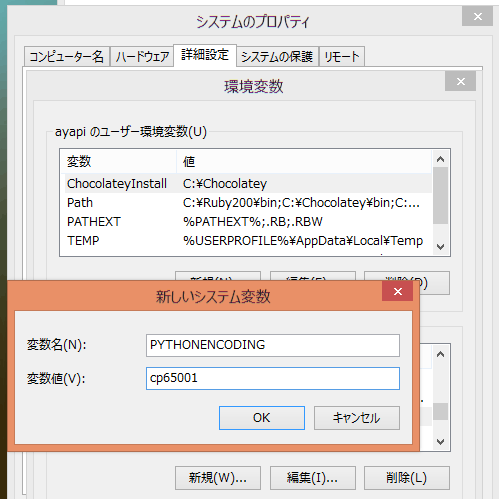
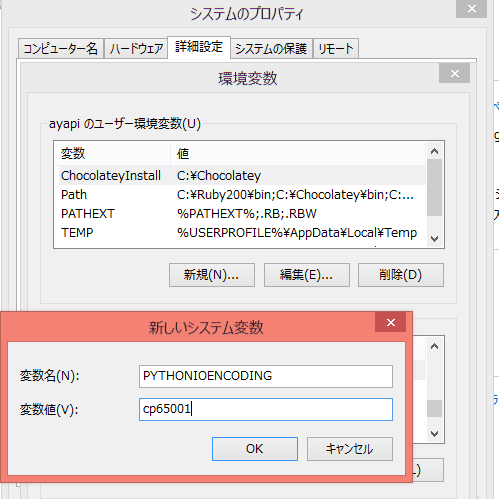
タイプミスと改行の修正

diff --git a/posts/nodejsSpawnPythonEncoding.md b/posts/nodejsSpawnPythonEncoding.md
@@ -102,7 +102,7 @@ Active code pageが65001だけど、
 Pythonの標準入出力ゎCP932って出てます(>_<)
 これゎ、とても困ります
 
-## 環境変数「PYTHONENCODING」の存在
+## 環境変数「PYTHONIOENCODING」の存在
 
 Pythonのドキュメントをちゃんと読んでみると、
 以下のょーな記述がぁりました
@@ -119,7 +119,9 @@ Pythonのドキュメントをちゃんと読んでみると、
 C:/test/test2.js
 ```javascript
 var spawn = require('child_process').spawn;
-var python_test = spawn('python', ['test.py'], {env:{"PYTHONIOENCODING":"cp65001"}});
+var python_test = spawn('python', ['test.py'], {
+    env:{ "PYTHONIOENCODING" : "cp65001" }
+});
 
 python_test.stdout.on('data', function (data) {
   console.log(data);
